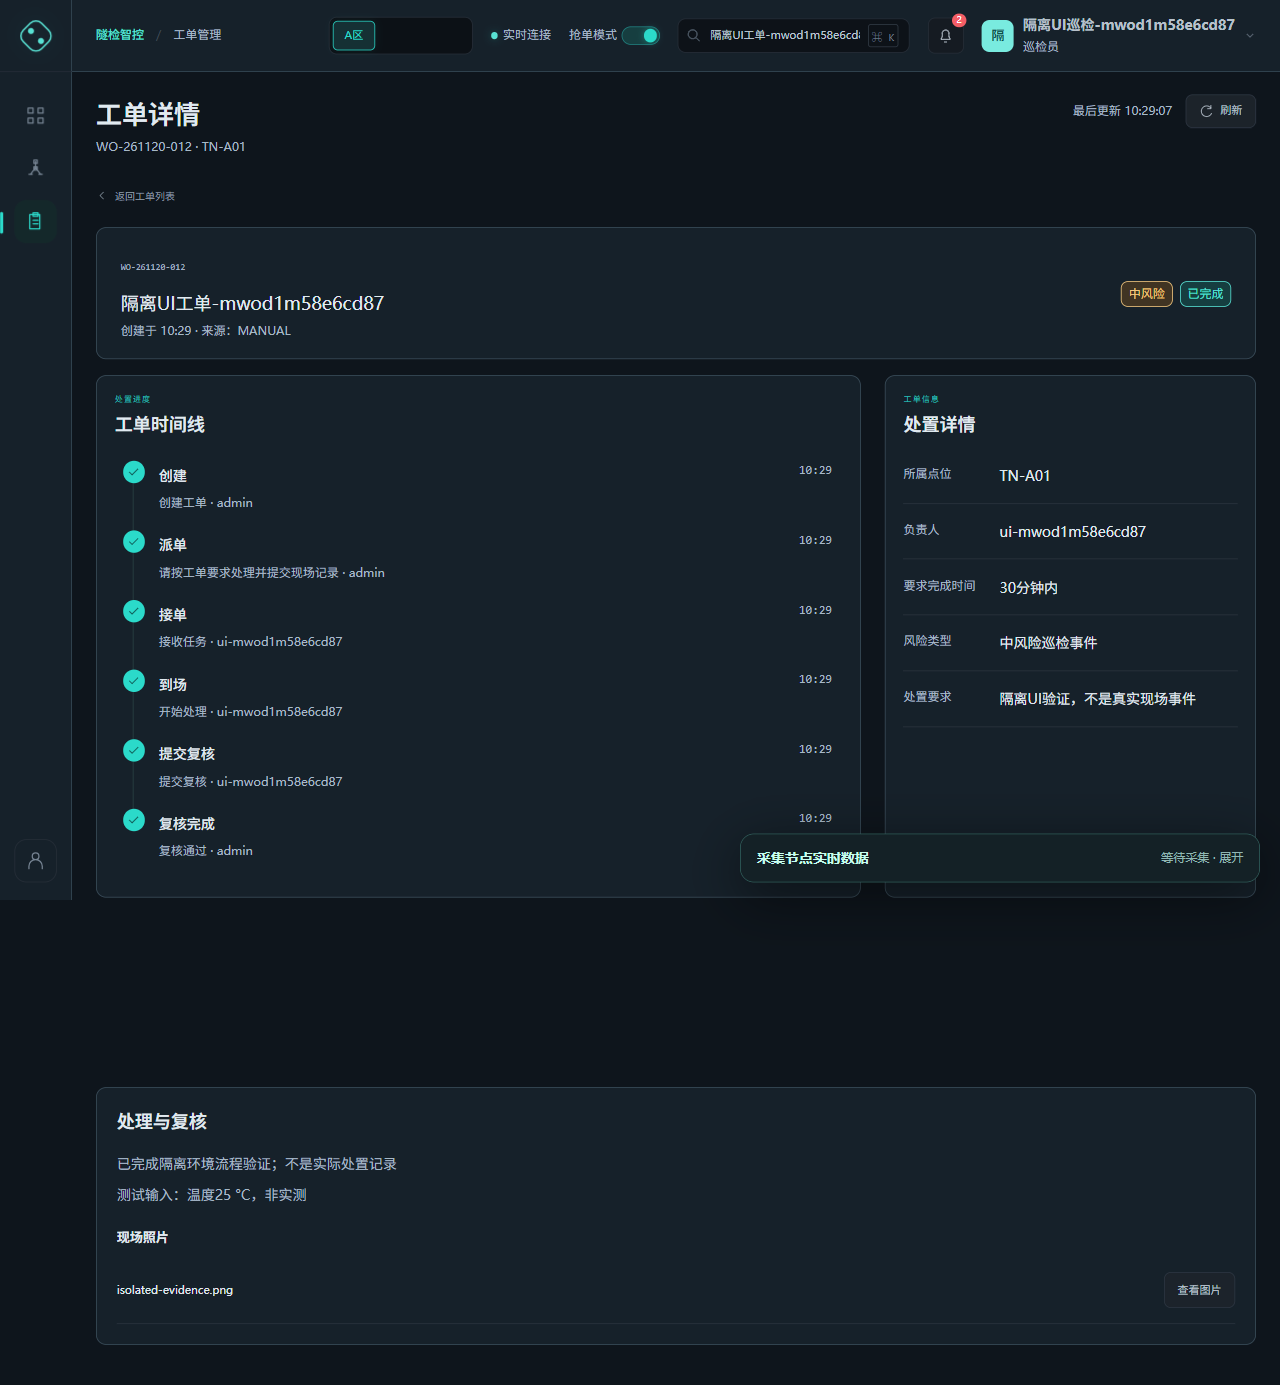
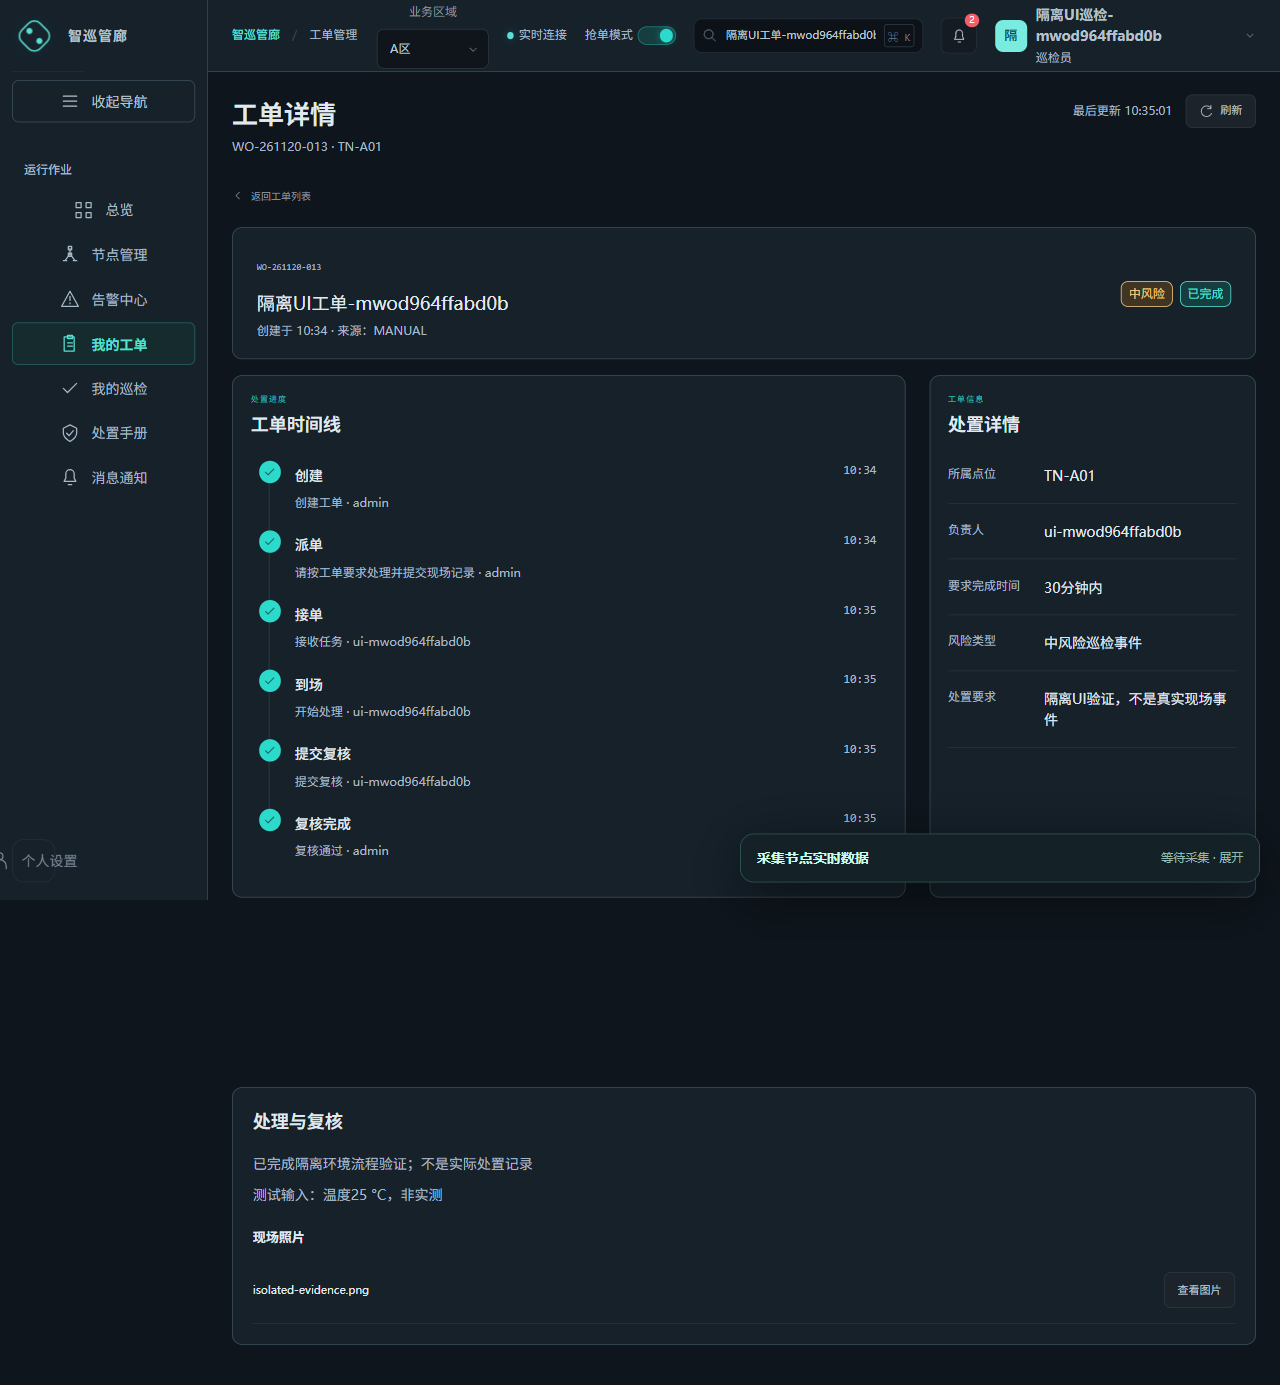
docs(web): record refined UI review and U04 closeout PRD
Attach current login, overview, nodes and settings screenshots from the
built-in browser review, refresh the completed-workflow artifact, and
archive the U04 visual closeout PRD.

Note: screenshots were captured at roughly 820px viewport width; wide
desktop layouts and mobile device rendering remain unverified.

diff --git a/docs/plans/2026-11-21-u04-visual-closeout-prd.md b/docs/plans/2026-11-21-u04-visual-closeout-prd.md
@@ -1,0 +1,129 @@
+# PRD：运维台遗留表面收口与双主题交互回归（U04）
+
+> 任务编号：U04（承接 U01–U03 的统一工业作业视觉）
+> 分支：`feat/u01-u03-refined-operations`
+> 状态：待接缝确认与发布
+
+## Problem Statement
+
+巡检与派单人员已经在使用统一后的精密作业台，但浅色主题下仍夹着上一版遗留的深色、渐变和高饱和表面：个人设置里的头像与图标块像一块块贴上去的深色标签，“换绑”看起来像一个没有填完的输入框；登录设备用手机图标表示电脑、用错配图形表示终端；账户菜单展开后是一组深色嵌套角色列表，字号和行高与周围菜单不一致；审计日志的日期筛选是一个突兀的深色胶囊，文案“全部日期”与实际含义对不上；空间态势的隧道底图、节点标签底色和引脚填充仍停留在深色霓虹风格；实时告警流卡片使用深色底，且“派单”按钮用绝对定位压在标题时间上，窗口一窄就互相挤压。
+
+这些问题让操作员难以判断哪些面是可操作控件、哪些是状态信息，也破坏了同一屏内的比较与阅读节奏。作业台的核心任务是快速看清告警、工单和证据；遗留表面制造的是视觉噪声，而不是信息。
+
+## Solution
+
+把 U01 建立的单一作业台语义面推广到所有遗留区域：中性抬升面、细线边界、唯一强调色、平面图标块，深色仅作为显式主题而不是默认装饰。个人设置回到“身份 + 操作”的平面阅读顺序；登录设备按真实终端类型显示显示器或手机图形；账户菜单改为与系统一致的浅色菜单，角色以扁平分组呈现；审计日期筛选与相邻下拉同高、同字号、同边界，默认文案改为“全部日期”；空间态势使用浅色工程图面，节点引脚改为浅色填充加语义描边，节点名称去掉白色底片；实时告警流使用中性卡片配左侧严重度条，“派单”回到正常流式布局，在窄宽度下不与时间重叠；品牌标记改为管廊断面图形。
+
+所有调整只改变呈现、排版和少量模板结构，不新增业务实体，不改接口、状态机、权限和数据库，不引入新的前端依赖。
+
+## User Stories
+
+1. 作为巡检人员，我希望浅色主题下所有面板都属于同一套中性台面，以便一眼区分“可操作区域”和“状态信息”。
+2. 作为巡检人员，我希望任何区域都不再出现深色渐变或发光装饰，以免误以为那是独立的应用或警告。
+3. 作为巡检人员，我希望个人设置的头像使用平面色块和细线边界，以便身份信息看起来稳定、可读，而不是一块深色装饰。
+4. 作为巡检人员，我希望头像与姓名、角色、区域信息按从左到右的顺序对齐，以便快速确认“我是谁、我在哪个区域”。
+5. 作为巡检人员，我希望“换绑”作为内联文字操作紧跟在手机号后面，以便知道它作用于哪一行，而不是像未填写的输入框。
+6. 作为巡检人员，我希望“换绑”在禁用、加载和失败时保持文字操作的外观并给出状态，以便区分“不能点”和“点了没反应”。
+7. 作为巡检人员，我希望手机号输入框与“换绑”在同一行内自适应，以便在窄窗口中不互相覆盖。
+8. 作为巡检人员，我希望登录设备列表中的每个设备使用中性背景的平面图标块，以便视觉焦点落在设备名称和状态上。
+9. 作为巡检人员，我希望电脑显示显示器图形、手机和平板显示手机图形，以便不必读平台字符串就能识别终端类型。
+10. 作为巡检人员，我希望平台信息缺失或无法识别时回退为通用桌面图形，而不是显示错误图标或空白。
+11. 作为巡检人员，我希望登录设备、安全设置和修改密码的图标块保持一致的尺寸、边界和灰度，以便设置页看起来是一个整体。
+12. 作为巡检人员，我希望安全设置中的修改密码入口使用与含义匹配的图标，以便在列表中快速定位。
+13. 作为巡检人员，我希望账户下拉菜单使用与页面一致的浅色表面、边界和阴影，以便展开时不会突然变成另一个产品。
+14. 作为巡检人员，我希望账户菜单的每一项使用 14px 正文、足够的行高和悬停/按下反馈，以便可点击区域清楚且不拥挤。
+15. 作为巡检人员，我希望角色切换以扁平分组展示，当前角色用强调色和圆点标记，以便知道当前生效的是哪个身份。
+16. 作为巡检人员，我希望展开角色分组时箭头方向随状态变化，并带有正确的展开语义，以便键盘和读屏用户也能理解。
+17. 作为巡检人员，我希望只有退出登录使用危险色，且仅在该项悬停时出现淡红底，以免整个菜单被红色污染。
+18. 作为巡检人员，我希望账户菜单支持键盘聚焦、回车触发和清晰的焦点环，以便不用鼠标也能完成切换角色和退出。
+19. 作为审计人员，我希望日期筛选与相邻筛选控件同高、同字号、同边界，以便工具栏看起来是一组可比较的控件。
+20. 作为审计人员，我希望未选择日期时显示“全部日期”，以便知道当前没有日期限制。
+21. 作为审计人员，我希望选择了起始或结束日期后，摘要显示“起 — 止”并对缺失端显示“不限”，以便明确当前范围。
+22. 作为审计人员，我希望日期弹层的输入框、标签和按钮使用同一套字号与边界，以便在弹层内继续完成筛选。
+23. 作为审计人员，我希望日期筛选在深色主题下保持同样的层级关系，而不是变成高饱和色块。
+24. 作为监控人员，我希望空间态势的隧道底图使用浅色工程图面，以便与周围的节点和告警信息处于同一视觉层。
+25. 作为监控人员，我希望隧道网格线足够淡，以便提供尺度感但不与节点争夺注意力。
+26. 作为监控人员，我希望隧道拱线和路面使用语义边界与中性填充，以便看懂结构而不被装饰性光效干扰。
+27. 作为监控人员，我希望节点引脚使用浅色填充和语义描边，正常、告警、离线分别可辨，以便快速定位异常点。
+28. 作为监控人员，我希望告警节点带有克制的环形提示，离线节点降低对比，而不是所有节点都发光。
+29. 作为监控人员，我希望节点名称直接显示在引脚下方且没有白色底片，以便文字与背景融为一体。
+30. 作为监控人员，我希望节点名称在悬停或键盘聚焦时变为强调色并出现焦点环，以便确认当前指向的节点。
+31. 作为监控人员，我希望节点名称字号不小于辅助文字下限，以便在监控距离下仍能读清。
+32. 作为监控人员，我希望图例中的名称和数量使用一致的字号和间距，以便横向比较各状态的节点数。
+33. 作为监控人员，我希望节点悬浮提示使用浅色表面、细线边界和正常文字色，以便在浅色底图上仍然清楚。
+34. 作为监控人员，我希望实时告警卡片使用中性抬升面和左侧严重度条，以便一眼看出哪条更紧急。
+35. 作为监控人员，我希望普通告警与高严重度告警只通过左侧条和语义色区分，而不是整卡染色，以便长时间浏览不疲劳。
+36. 作为监控人员，我希望与当前节点关联的告警卡片使用强调色底和边界，以便知道它对应图上的哪个点。
+37. 作为监控人员，我希望告警标题、时间、原因和严重度使用稳定的 14/12/13px 层级，以便快速扫读而不是逐字阅读。
+38. 作为监控人员，我希望“派单”按钮位于卡片底部的正常文档流中，以便在任何窗口宽度下都不压住标题或时间。
+39. 作为监控人员，我希望在窄窗口中告警底部信息可以换行，而不是让按钮被挤出卡片。
+40. 作为监控人员，我希望点击“派单”只打开派单流程，不会误触为选中或跳转告警，以便保持原有交互。
+41. 作为所有用户，我希望品牌标记是管廊断面图形，并与导航文字基线对齐，以便它表达业务而不是通用装饰。
+42. 作为所有用户，我希望品牌标记继承当前文字颜色，以便在深浅主题和不同背景上都保持一致。
+43. 作为所有用户，我希望左侧导航的图标列、文字基线和激活强调条对齐，以便快速定位当前模块。
+44. 作为所有用户，我希望首次访问默认浅色，已显式选择深色的用户继续使用深色，以便不覆盖个人偏好。
+45. 作为所有用户，我希望深浅主题共用同一套业务语义色，以便告警、成功、离线和危险在两套主题下含义不变。
+46. 作为所有用户，我希望正文不小于 14px、辅助文字不小于 12px、控件圆角控制在 5–8px，以便长时间作业时阅读舒适。
+47. 作为所有用户，我希望所有可交互元素都有可见的悬停、按下和焦点状态，以便知道操作是否被接收。
+48. 作为所有用户，我希望在窄窗口、浏览器缩放和长设备名称下不出现文字截断、按钮重叠或横向滚动。
+49. 作为所有用户，我希望空列表、加载失败、权限不足和演示数据状态仍然清晰可见，不被视觉收口掩盖。
+50. 作为运维负责人，我希望本次收口不改变派单、告警、工单、巡检的权限、状态和写入结果，以便视觉调整不引入业务回归。
+51. 作为运维负责人，我希望验证记录明确区分“代码/构建通过”和“真实界面已验收”，以便不把静态检查当成交互验收。
+52. 作为后续维护者，我希望所有遗留表面通过同一套设计令牌覆盖，而不是继续堆叠页面级特例，以便下一次主题调整只改一处。
+
+## Implementation Decisions
+
+- **模块范围**：Admin 网页的作业台主题层、个人设置、账户菜单、审计日志工具栏、空间态势、实时告警流、共享图标与品牌标记。Java 接口、移动网关、鸿蒙端和硬件桥不在本次改动内。
+- **单一语义面**：所有遗留深色/渐变表面改为中性抬升面 + 细线边界；强调色只用于选中、当前、链接和主操作；危险色只用于退出与破坏性操作；告警/成功/离线使用各自语义令牌。
+- **设计令牌契约**：沿用并补齐表面、抬升、悬停、按下、边界、控件边界、正文、辅助、强调、危险、警告、离线、成功、圆角等令牌。业务组件只消费令牌，不直接写页面级色值。
+- **层叠策略**：遗留样式来自主题覆盖和通用元素选择器，收口规则统一挂在作业台根作用域下，以稳定优先级覆盖旧规则；不使用 `!important` 堆叠，也不删除仍被其他页面使用的旧规则。
+- **平面化**：移除头像、图标块、菜单、日期控件、隧道底图和告警卡上的渐变、背景图、发光阴影和深色底；保留必要的 1px 边界和低透明度投影表达层级。
+- **个人设置**：身份区改为头像 + 文本纵向排列的平面布局；头像使用强调色文字与浅强调底；手机号与“换绑”同一行自适应；“换绑”为内联文字按钮，保留禁用、加载、失败状态。
+- **设备图标**：共享图标组件新增显示器与手机两个字形；设置页根据平台字符串选择手机字形，其余回退显示器；图标块统一为中性底、细线边界和小尺寸。
+- **账户菜单**：菜单宽度、内边距、行高和字号统一；角色分组改为透明扁平分组，当前角色用强调色与圆点；展开按钮维护 `aria-expanded`；退出登录仅使用危险色。
+- **审计日期筛选**：日期控件改为与相邻下拉一致的 40px 高、14px 摘要字号、表面底与细线边界；摘要默认“全部日期”，有范围时显示“起 — 止”；弹层输入与按钮沿用令牌。
+- **空间态势**：隧道容器改为抬升面，网格使用低透明度边界色；拱线与路面使用边界/强调底；引脚使用表面填充加语义描边，告警增加淡色环，离线降低对比；节点名称去掉底片，使用正文色与等宽数字。
+- **实时告警流**：卡片使用抬升面与左侧 3px 严重度条；关联态使用强调底与强调边界；“派单”改为静态定位并置于底部正常流，底部信息允许换行；保持点击派单不触发卡片选中。
+- **品牌标记**：改用管廊断面意象（外层拱、内层衬砌、地面线与轨道刻度），统一 `currentColor` 和固定视框，不依赖主题背景图。
+- **主题行为**：无本机偏好时默认浅色；显式深浅选择继续生效；读取失败回退可用默认值；两套主题共享业务语义。
+- **可访问性**：可交互元素提供 `focus-visible` 焦点环；展开状态有语义；辅助文字不小于 12px；正文 14–15px；业务表格行高保持 52–56px；不依赖颜色单一通道表达严重度。
+- **交互保持**：不新增写入路径，不改请求、授权、轮询、状态机和错误保护；演示、过期、失权、未知写入状态继续可见。
+- **工程约束**：不引入前端依赖；不修改构建配置；不改接口契约；不生成演示数据写入真实库；不启动外部浏览器窗口或鸿蒙虚拟机。
+
+## Testing Decisions
+
+- **好测试的标准**：断言用户可观察的外部行为——渲染后的颜色关系、尺寸一致性、元素是否重叠、交互是否可用、状态语义是否正确；不断言类名、DOM 层级或具体十六进制色值本身。
+- **唯一接缝**：复用现有浏览器冒烟入口，在“渲染后的 Admin 页面”这一层验证工作台、审计日志和个人设置三个入口。新增一个视觉契约规格，不按组件各建一套测试。
+- **接缝运行方式**：视觉契约规格必须显式指定隔离的预览地址，禁止指向开发者正在使用的 5173；允许无头运行，禁止自动弹出可见 Edge/Chrome 窗口。若执行环境不允许无头浏览器自动化，则用同一份断言清单在 Codex 内置浏览器中手动核对，并如实标记哪些项未验收。
+- **现有先例**：纯逻辑模块使用项目内 `node:test`；页面级验证使用现有 Playwright 冒烟脚本（显式基址、独立回环端口、产物写入验证目录）。视觉契约沿用同一启动与产物约定，不新建第二套浏览器工具链。
+- **自动断言范围**：
+  - 个人设置：头像无渐变背景图、图标块为中性底、设备图标与平台匹配、“换绑”与手机号输入无矩形相交、禁用态仍可辨认。
+  - 账户菜单：菜单为浅色表面、角色分组非深色底、当前角色有强调标记、退出项仅在悬停时出现危险底、展开按钮语义随状态变化。
+  - 审计日期：与相邻下拉高度一致、摘要默认“全部日期”、有范围时显示“起 — 止”、弹层打开后边界变为强调色。
+  - 空间态势：隧道容器为抬升面、引脚为表面填充、告警与离线描边不同、节点名称无背景色且字号达标、悬停/聚焦出现强调色与焦点环。
+  - 实时告警：卡片为抬升面、左侧条随严重度变化、关联态为强调底、“派单”与标题时间矩形不相交、窄宽度下按钮仍在卡片内。
+  - 全局：浅色/深色切换后上述语义保持；正文与辅助字号下限；控件圆角范围；焦点环可见；无横向溢出。
+- **手动交互清单**：切换个人设置各标签页、展开/收起角色、打开/关闭日期弹层并清空范围、悬停与键盘遍历节点、点击派单并确认未触发告警选中、窄窗口下查看告警底部换行、刷新后主题偏好保持。
+- **证据记录**：类型检查、生产构建、视觉契约结果和手动核对结果分别记录；构建通过不能替代界面验收；内置信箱尺寸不可用时，明确记录“像素级验收未完成”。
+- **回归保护**：视觉契约只读取和点击，不写入业务数据；不依赖真实账号的写操作；使用演示或隔离环境验证派单入口。
+
+## Out of Scope
+
+- 任何业务实体、接口契约、状态机、权限模型、数据库结构和迁移。
+- Java 后端、移动网关、鸿蒙端、硬件桥和真实设备联调。
+- 新增页面、功能流程、图表能力或前端依赖。
+- 登录页、全局字体替换和品牌视觉系统的进一步扩展（登录页统一已另行完成）。
+- 响应式重做；本次只保证现有断点下不重叠、不截断。
+- 引入动画编排或装饰性动效；只保留必要的悬停、按下和展开过渡。
+- 用截图比对作为唯一验收依据，或自动启动外部可见浏览器窗口。
+- 向生产库造数、模拟上报冒充真实采集、隐藏演示或失权状态。
+
+## Further Notes
+
+- 当前工作区已包含本次收口的大部分视觉改动，但尚未形成独立提交；实施时应先审阅现有差异，保留无关的 README、启动脚本、鸿蒙验收材料和历史截图改动，只按可独立验收的切片提交。
+- 工作区同时存在多处与本任务无关的未提交文件，禁止全量暂存；提交信息沿用 `feat(web)` / `fix(web)` 并记录任务编号。
+- 浏览器样式读取需注意隐藏页面中的过渡冻结：读取最终颜色前应临时禁用过渡，否则会把中间值当成结果。
+- 用户截图可能早于热更新完成；复现前先强制刷新并确认页面加载的是当前构建，避免把旧画面当成回归。
+- 内置浏览器当前视口不可用时只能做 DOM 与计算样式核对，不能宣称像素级界面验收完成；该限制应写入验证记录。
+- 接缝提案：以渲染后的三个页面入口作为唯一测试接缝，而不是为每个组件新增单元测试或截图快照；如维护者希望把令牌层单独测试，需要另行确认，因为这会把测试绑定到实现细节。
+- 发布状态：当前环境没有可用的 GitHub CLI、议题跟踪器绑定或 `ready-for-agent` 标签，本文档作为本地 PRD 草稿保存；标签尚未应用。
